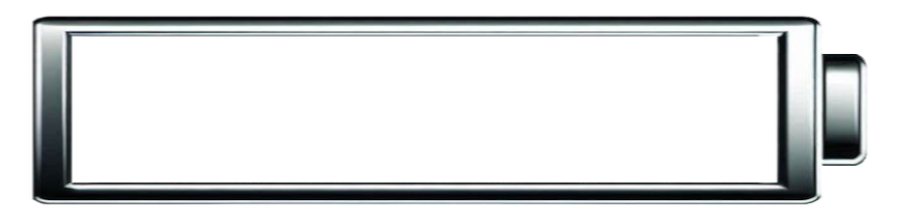
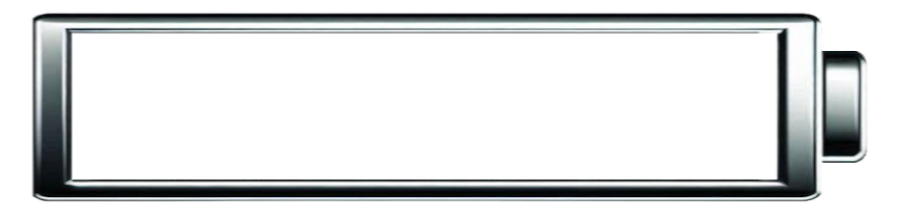
better backgrounds

diff --git a/App.xaml b/App.xaml
@@ -60,14 +60,14 @@
             <Color x:Key="AlphaShadow2">#F0161616</Color>
             <Color x:Key="AlphaShadow3">#F0090909</Color>
             <Color x:Key="AlphaShadow4">#F0000000</Color>
-            <Color x:Key="GC1">#40192E3D</Color>
-            <Color x:Key="GC2">#40335F7F</Color>
-            <Color x:Key="GC3">#404E91C4</Color>
-            <Color x:Key="GC4">#4066BCFF</Color>
-            <Color x:Key="BC1">#7000FF21</Color>
-            <Color x:Key="BC2">#704800FF</Color>
-            <Color x:Key="BC3">#70FFD800</Color>
-            <Color x:Key="BC4">#70FF6A00</Color>
+            <Color x:Key="GC1">#36192E3D</Color>
+            <Color x:Key="GC2">#36335F7F</Color>
+            <Color x:Key="GC3">#364E91C4</Color>
+            <Color x:Key="GC4">#3666BCFF</Color>
+            <Color x:Key="BC1">#3600FF21</Color>
+            <Color x:Key="BC2">#364800FF</Color>
+            <Color x:Key="BC3">#36FFD800</Color>
+            <Color x:Key="BC4">#36FF6A00</Color>
             <Color x:Key="ColorFrom">#FF4800FF</Color>
             <Color x:Key="ColorTo">#FF10FFFF</Color>
             <Color x:Key="Step1">#ff4800FF</Color>

diff --git a/MainPage.xaml b/MainPage.xaml
@@ -9,7 +9,7 @@
     xmlns:mc="http://schemas.openxmlformats.org/markup-compatibility/2006"
     mc:Ignorable="d">
 
-    <Grid>
+    <Grid x:Name="root">
         <Grid.RowDefinitions>
             <RowDefinition Height="Auto" />
             <RowDefinition Height="*" />
@@ -122,8 +122,8 @@
                 HorizontalAlignment="Left"
                 Fill="{x:Bind FillBrush, Mode=OneWay, FallbackValue=DodgerBlue}"
                 Opacity="0.85"
-                RadiusX="6"
-                RadiusY="6"
+                RadiusX="{x:Bind CornerRadius, Mode=OneWay, FallbackValue=6}"
+                RadiusY="{x:Bind CornerRadius, Mode=OneWay, FallbackValue=6}"
                 Stretch="Fill" />
 
             <ctrl:CompShadow

diff --git a/MainPage.xaml.cs b/MainPage.xaml.cs
@@ -73,7 +73,7 @@ public sealed partial class MainPage : Page, INotifyPropertyChanged
         set { _outlineWidth = value; NotifyPropertyChanged(nameof(OutlineWidth)); }
     }
 
-    double _outlineHeight = 74;
+    double _outlineHeight = 78;
     public double OutlineHeight
     {
         get => _outlineHeight;
@@ -87,11 +87,18 @@ public sealed partial class MainPage : Page, INotifyPropertyChanged
         set { _fillWidth = value; NotifyPropertyChanged(nameof(FillWidth)); }
     }
 
-    double _fillHeight = 72;
+    double _fillHeight = 76;
     public double FillHeight
     {
         get => _fillHeight;
         set { _fillHeight = value; NotifyPropertyChanged(nameof(FillHeight)); }
+    }
+
+    double _cornerRadius = 6;
+    public double CornerRadius
+    {
+        get => _cornerRadius;
+        set { _cornerRadius = value; NotifyPropertyChanged(nameof(CornerRadius)); }
     }
 
     Brush _fillBrush = new SolidColorBrush(Microsoft.UI.Colors.DodgerBlue);
@@ -160,16 +167,6 @@ public sealed partial class MainPage : Page, INotifyPropertyChanged
             Debug.WriteLine("PowerGridForcast is not available");
     }
 
-    void MainPageOnUnloaded(object sender, RoutedEventArgs e)
-    {
-        ToggleTimer(false);
-        if (App.Profile != null && App.Profile.logging)
-        {
-            Logger.Log($"⏱ Application instance ran for {_watch.GetElapsedFriendly()}", true);
-            Logger.ConfirmLogIsFlushed(2000);
-        }
-    }
-
     void MainPageOnLoaded(object sender, RoutedEventArgs e)
     {
         IsBusy = true;
@@ -206,10 +203,11 @@ public sealed partial class MainPage : Page, INotifyPropertyChanged
                 }
             });
 
+        //var images = System.IO.Path.Combine(AppDomain.CurrentDomain.BaseDirectory, "Assets")
         // We could just directly set the user's background image name to the control, but this async method is fun to use.
-        Path.Combine(AppContext.BaseDirectory, "Assets").EnumerateFilesWithProgressAsync(searchPattern: "*.png", recursive: false, App.CoreToken != null ? App.CoreToken.Token : CancellationToken.None,
+        System.IO.Path.Combine(AppContext.BaseDirectory, "Assets").EnumerateFilesWithProgressAsync(searchPattern: "*.png", recursive: false, App.CoreToken != null ? App.CoreToken.Token : CancellationToken.None,
             (s, e) => {
-                Debug.WriteLine($"• Found: {e.UserState} ({e.ProgressPercentage})");
+                Debug.WriteLine($"• Found '{e.UserState}' ({e.ProgressPercentage})");
             }).ContinueWith((t) => {
                 if (t.IsFaulted)
                     Debug.WriteLine($"⇒ EnumerateFiles(Faulted): {t.Exception?.GetBaseException().Message}");
@@ -218,17 +216,23 @@ public sealed partial class MainPage : Page, INotifyPropertyChanged
                     if (App.Profile != null && !string.IsNullOrEmpty(App.Profile.backgroundImage))
                     {
                         var match = _backgrounds.Where(x => Regex.IsMatch(x, App.Profile.backgroundImage)).FirstOrDefault();
-                        //_backgrounds.RemoveAll(x => !x.Contains(App.Profile.backgroundImage));
                         if (!string.IsNullOrEmpty(match))
                         {
-                            _localDispatcher.TryEnqueue(() =>
-                            {
-                                imgBattery.Source = new Microsoft.UI.Xaml.Media.Imaging.BitmapImage(new Uri(match));
-                            });
+                            _localDispatcher.TryEnqueue(() => { imgBattery.Source = new Microsoft.UI.Xaml.Media.Imaging.BitmapImage(new Uri(match)); });
                         }
                     }
                 }
             }).ConfigureAwait(false);
+    }
+
+    void MainPageOnUnloaded(object sender, RoutedEventArgs e)
+    {
+        ToggleTimer(false);
+        if (App.Profile != null && App.Profile.logging)
+        {
+            Logger.Log($"⏱ Application instance ran for {_watch.GetElapsedFriendly()}", true);
+            Logger.ConfirmLogIsFlushed(2000);
+        }
     }
 
     void ToggleTimer(bool enabled)
@@ -354,6 +358,7 @@ public sealed partial class MainPage : Page, INotifyPropertyChanged
             //OutlineHeight = 74;
             //OutlineWidth = fullLength;
 
+            CornerRadius = App.Profile != null ? App.Profile.cornerRadius : 6;
             FillHeight = App.Profile != null ? App.Profile.fillHeight : 78;
             FillWidth = barLength;
 

diff --git a/MainWindow.xaml.cs b/MainWindow.xaml.cs
@@ -238,15 +238,15 @@ public sealed partial class MainWindow : Window, INotifyPropertyChanged
             App.Current.Resources.TryGetValue("GC4", out object clr4))
         {
             gradientStops.Insert(0, compositor.CreateColorGradientStop(0.0f, (Windows.UI.Color)clr1));
-            gradientStops.Insert(1, compositor.CreateColorGradientStop(0.3f, (Windows.UI.Color)clr2));
-            gradientStops.Insert(2, compositor.CreateColorGradientStop(0.6f, (Windows.UI.Color)clr3));
+            gradientStops.Insert(1, compositor.CreateColorGradientStop(0.4f, (Windows.UI.Color)clr2));
+            gradientStops.Insert(2, compositor.CreateColorGradientStop(0.7f, (Windows.UI.Color)clr3));
             gradientStops.Insert(3, compositor.CreateColorGradientStop(1.0f, (Windows.UI.Color)clr4));
         }
         else
         {
             gradientStops.Insert(0, compositor.CreateColorGradientStop(0.0f, Windows.UI.Color.FromArgb(55, 255, 0, 0)));   // Red
-            gradientStops.Insert(1, compositor.CreateColorGradientStop(0.3f, Windows.UI.Color.FromArgb(55, 255, 216, 0))); // Yellow
-            gradientStops.Insert(2, compositor.CreateColorGradientStop(0.6f, Windows.UI.Color.FromArgb(55, 0, 255, 0)));   // Green
+            gradientStops.Insert(1, compositor.CreateColorGradientStop(0.4f, Windows.UI.Color.FromArgb(55, 255, 216, 0))); // Yellow
+            gradientStops.Insert(2, compositor.CreateColorGradientStop(0.7f, Windows.UI.Color.FromArgb(55, 0, 255, 0)));   // Green
             gradientStops.Insert(3, compositor.CreateColorGradientStop(1.0f, Windows.UI.Color.FromArgb(55, 0, 0, 255)));   // Blue
         }
 

diff --git a/Support/Extensions.cs b/Support/Extensions.cs
@@ -3312,11 +3312,27 @@ public static class Extensions
         return Convert.ToHexString(bytes).ToLower();
     }
 
+    /// <summary>
+    /// Breaks a string into smaller strings of a specified size.
+    /// Can be useful when parsing large amounts of hex data.
+    /// </summary>
+    public static IEnumerable<string> SplitToMaxDataSize(this string str, int maxChunkSize = 8)
+    {
+        if (string.IsNullOrEmpty(str))
+        {
+            yield return string.Empty;
+        }
+
+        for (var i = 0; i < str.Length; i += maxChunkSize)
+        {
+            yield return str.Substring(i, Math.Min(maxChunkSize, str.Length - i));
+        }
+    }
+
     /// <summary><code>
-    ///  AppContext.BaseDirectory.EnumerateFilesWithProgressAsync(searchPattern: "*.dll", recursive: false, App.CoreToken != null ? App.CoreToken.Token : CancellationToken.None,
+    ///  AppContext.BaseDirectory.EnumerateFilesWithProgressAsync(searchPattern: "*.dll", recursive: false, CancellationToken.None,
     ///     (s, e) => {
-    ///        Debug.WriteLine($"• Found: {e.UserState}");
-    ///        Debug.WriteLine($"• Progress: {e.ProgressPercentage}");
+    ///        Debug.WriteLine($"• Found: {e.UserState}, Progress: {e.ProgressPercentage}");
     ///     }).ContinueWith((t) => {
     ///        if (t.IsFaulted)
     ///           Debug.WriteLine($"⇒ EnumerateFilesWithProgressAsync(Faulted): {t.Exception?.GetBaseException().Message}");

diff --git a/Support/Logger.cs b/Support/Logger.cs
@@ -243,4 +243,10 @@ internal static class Logger
     {
         return SpinWait.SpinUntil(() => BackgroundProcessThread.ThreadState.HasFlag(System.Threading.ThreadState.WaitSleepJoin), Math.Max(0, TimeoutMilliseconds));
     }
+
+    public static string SanitizeFileNameOrPath(string fileName)
+    {
+        if (string.IsNullOrEmpty(fileName)) { return string.Empty; }
+        return string.Join("_", fileName.Split(System.IO.Path.GetInvalidFileNameChars()));
+    }
 }

diff --git a/App.xaml.cs b/App.xaml.cs
@@ -357,6 +357,7 @@ public partial class App : Application
                 logging = false,
                 transparency = false,
                 fillHeight = 78,
+                cornerRadius = 6d,
                 backgroundImage = "Background6.png",
             };
             ConfigHelper.SaveConfig(Profile);

diff --git a/Support/ConfigHelper.cs b/Support/ConfigHelper.cs
@@ -71,6 +71,10 @@ public class Config
     public int fillHeight = 78;  // px
 
     [JsonInclude]
+    [JsonPropertyName("cornerradius")]
+    public double cornerRadius = 6;
+
+    [JsonInclude]
     [JsonPropertyName("backgroundimage")]
     public string backgroundImage = "Background6.png";
 

diff --git a/README.md b/README.md
@@ -14,7 +14,7 @@
 
 ## 📰 Description
 - A [WinUI 3](https://learn.microsoft.com/en-us/windows/apps/winui/winui3/) app which uses the [Windows.Devices.Power.Battery](https://learn.microsoft.com/en-us/uwp/api/windows.devices.power.battery?view=winrt-26100) library to render a battery meter.
-- There are seven battery image backgrounds to choose from.
+- There are 11 battery image backgrounds to choose from.
 - This source also contains plenty of tips and tricks for any [WinUI 3](https://learn.microsoft.com/en-us/windows/apps/winui/winui3/) application.
 - Don't forget to give a ⭐ if you find any of my code helpful or educational.
  
@@ -35,6 +35,10 @@
 > Transparency enabled
 
 ![Transparency](Assets/Screenshot4.png)
+
+> Battery image swap
+
+![Background](Assets/Screenshot5.png)
 
 ## 🧾 License/Warranty
 * Permission is hereby granted, free of charge, to any person obtaining a copy of this software and associated documentation files (the "Software"), to deal in the Software without restriction, including without limitation the rights to use, copy, modify, merge, publish and distribute copies of the Software, and to permit persons to whom the Software is furnished to do so, subject to the following conditions: The above copyright notice and this permission notice shall be included in all copies or substantial portions of the Software.
